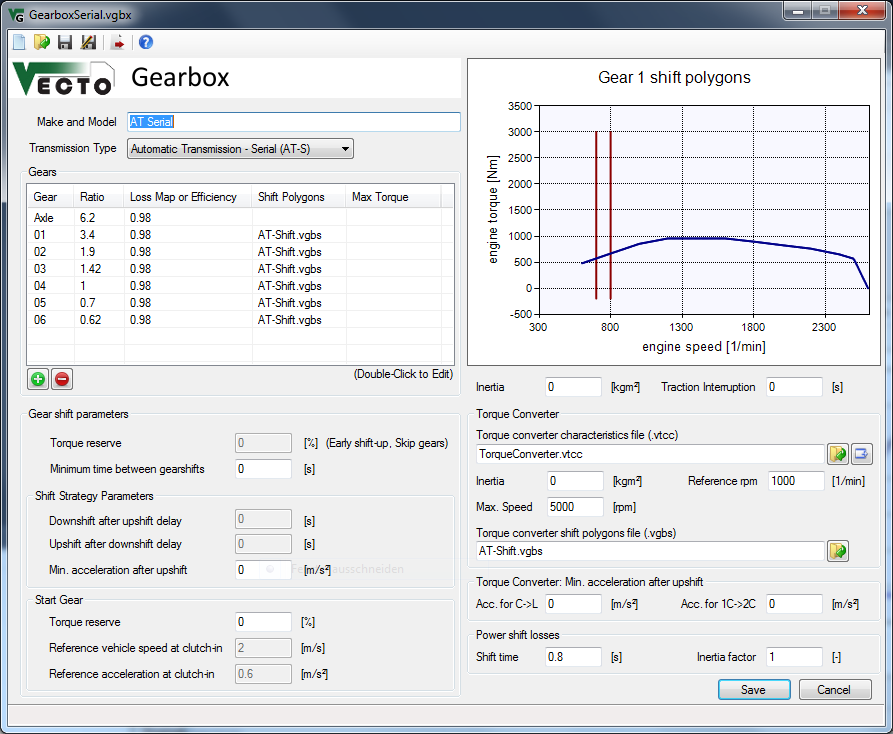
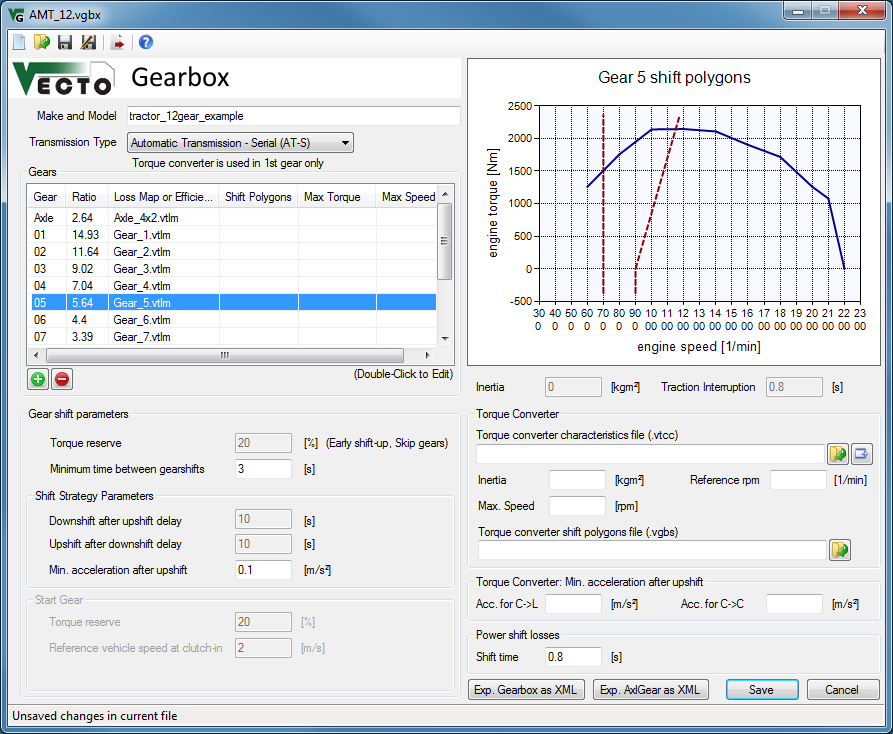
updating screenshots for help

diff --git a/Documentation/User Manual/1-user-interface/F_VEH-Editor.md b/Documentation/User Manual/1-user-interface/F_VEH-Editor.md
@@ -1,10 +1,12 @@
 ##Vehicle Editor
 
-![](pics/VEH-Editor.jpg)
+![](pics/VEH-Editor.PNG)
 
 ###Description
 
 The [Vehicle File (.vveh)](#vehicle-file) defines the main vehicle/chassis parameters like axles including [RRC](#rolling-resistance-coefficient)s, air resistance and weight.
+
+The Vehicle Editor contains 3 tabs to edit all vehicle-related parameters. The 'General' tab allows to input mass, loading, air resistance, vehicle axles, etc. The 'Powertrain' allows to define the retarder, an optional angle drive, or PTO consumer. In the third tab the engine torque can be limited to a maximum for individual gears.
 
 ###Relative File Paths
 

diff --git a/Documentation/User Manual/1-user-interface/G_ENG-Editor.md b/Documentation/User Manual/1-user-interface/G_ENG-Editor.md
@@ -1,6 +1,6 @@
 ##Engine Editor
 
-![](pics/ENG-Editor.jpg)
+![](pics/ENG-Editor.PNG)
 
 ###Description
 

diff --git a/Documentation/User Manual/1-user-interface/H_GBX-Editor.md b/Documentation/User Manual/1-user-interface/H_GBX-Editor.md
@@ -2,7 +2,7 @@
 
 
 
-![](pics/GBX-Editor.png)
+![](pics/GBX-Editor.PNG)
 
 
 ###Description
